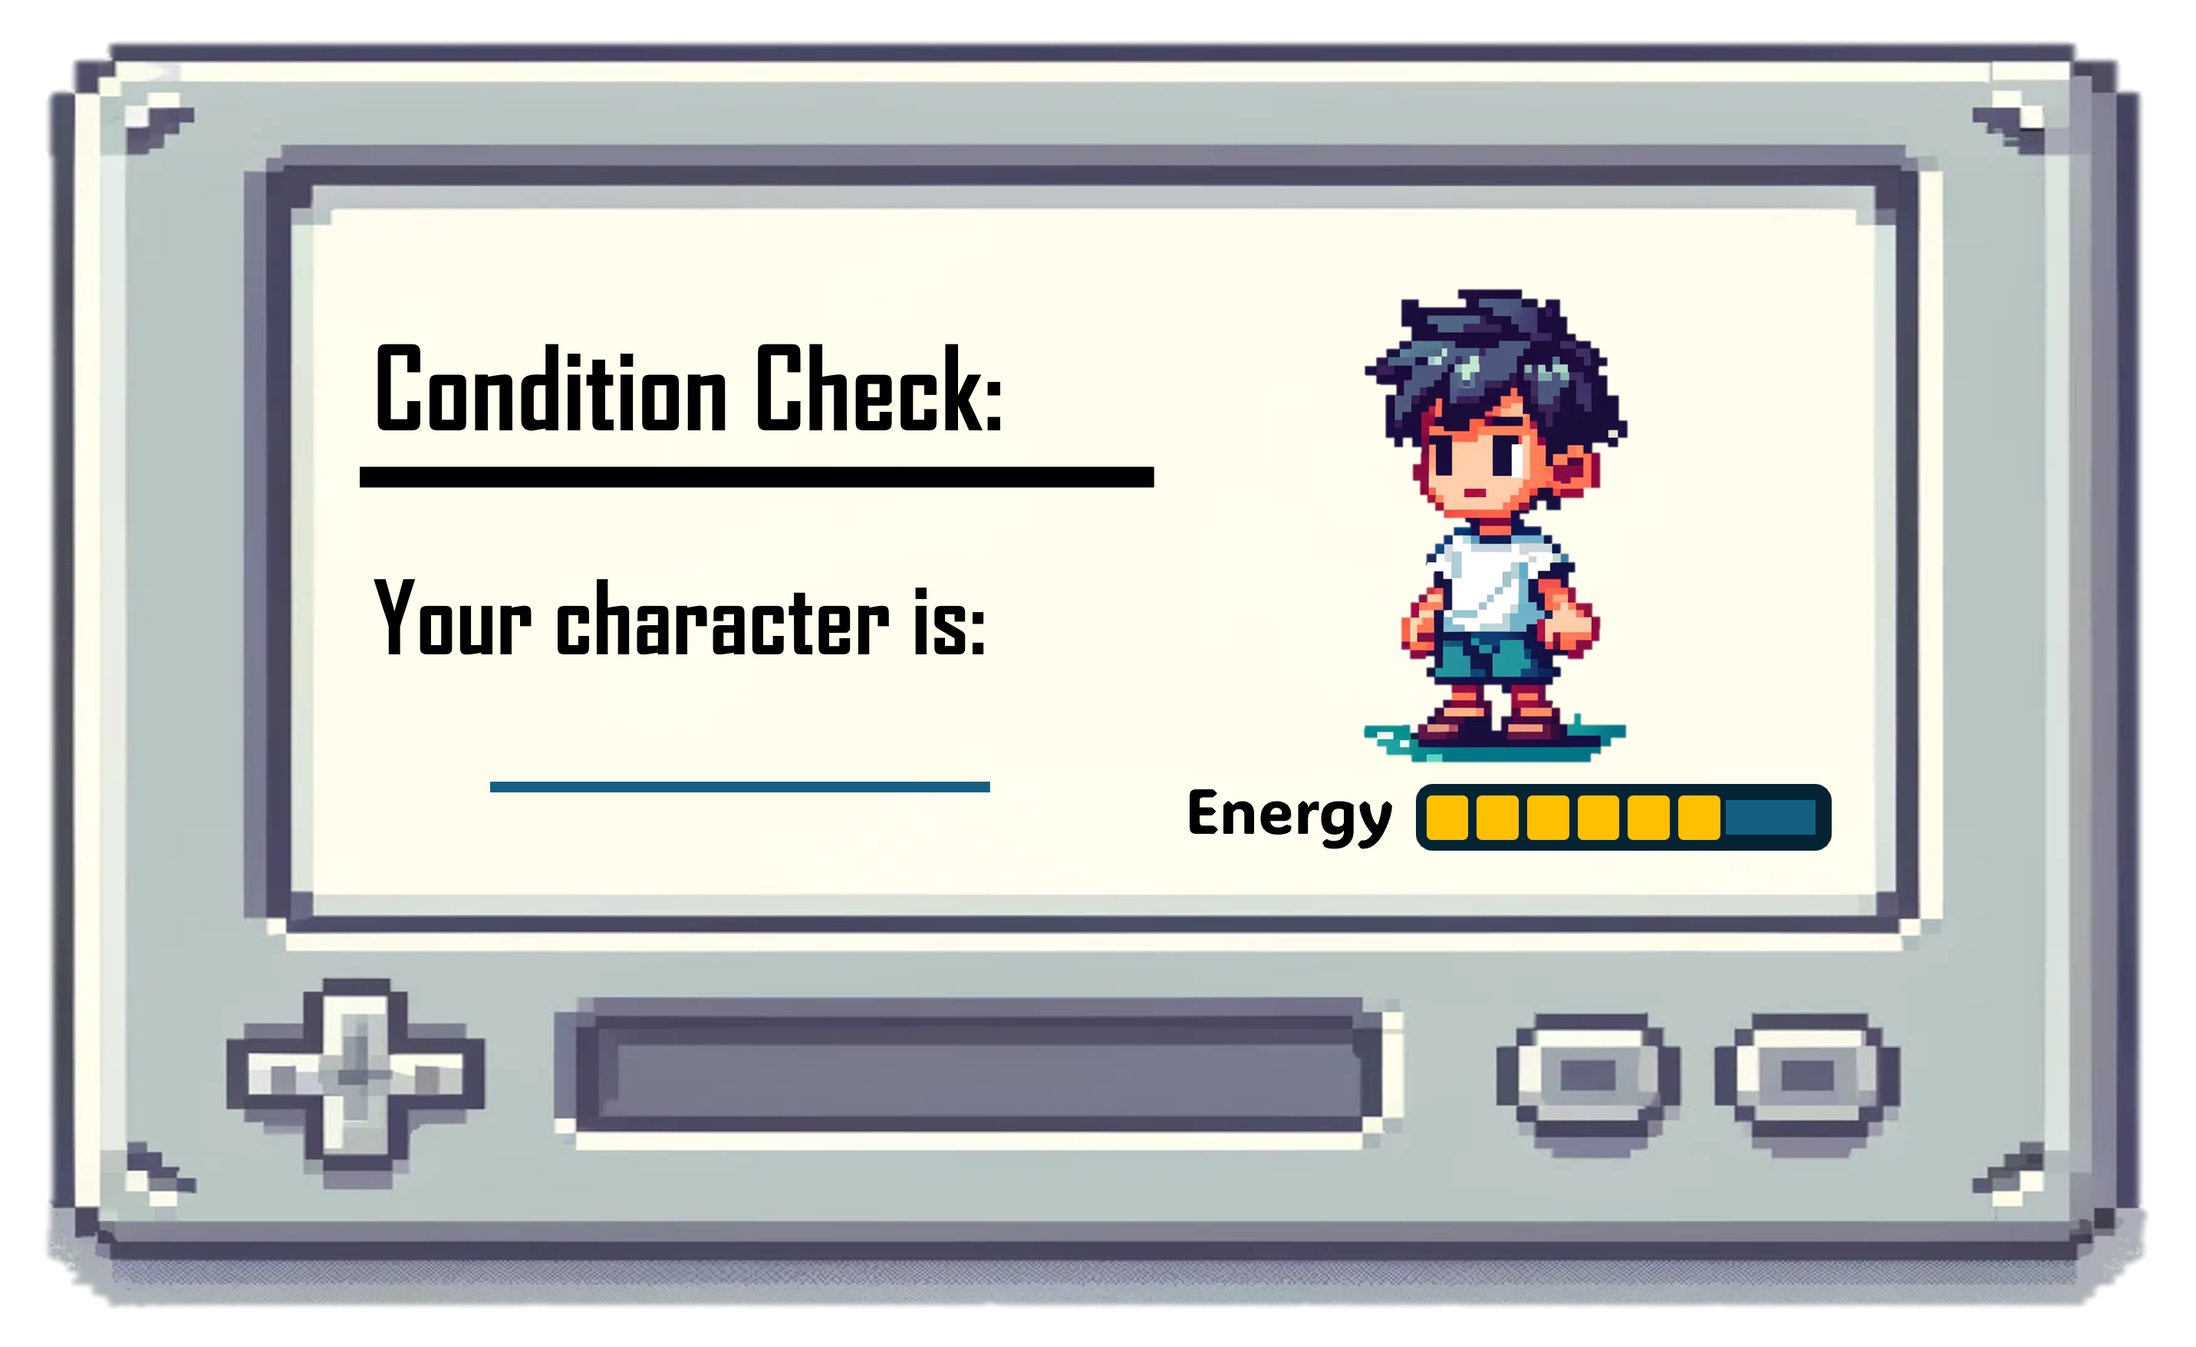
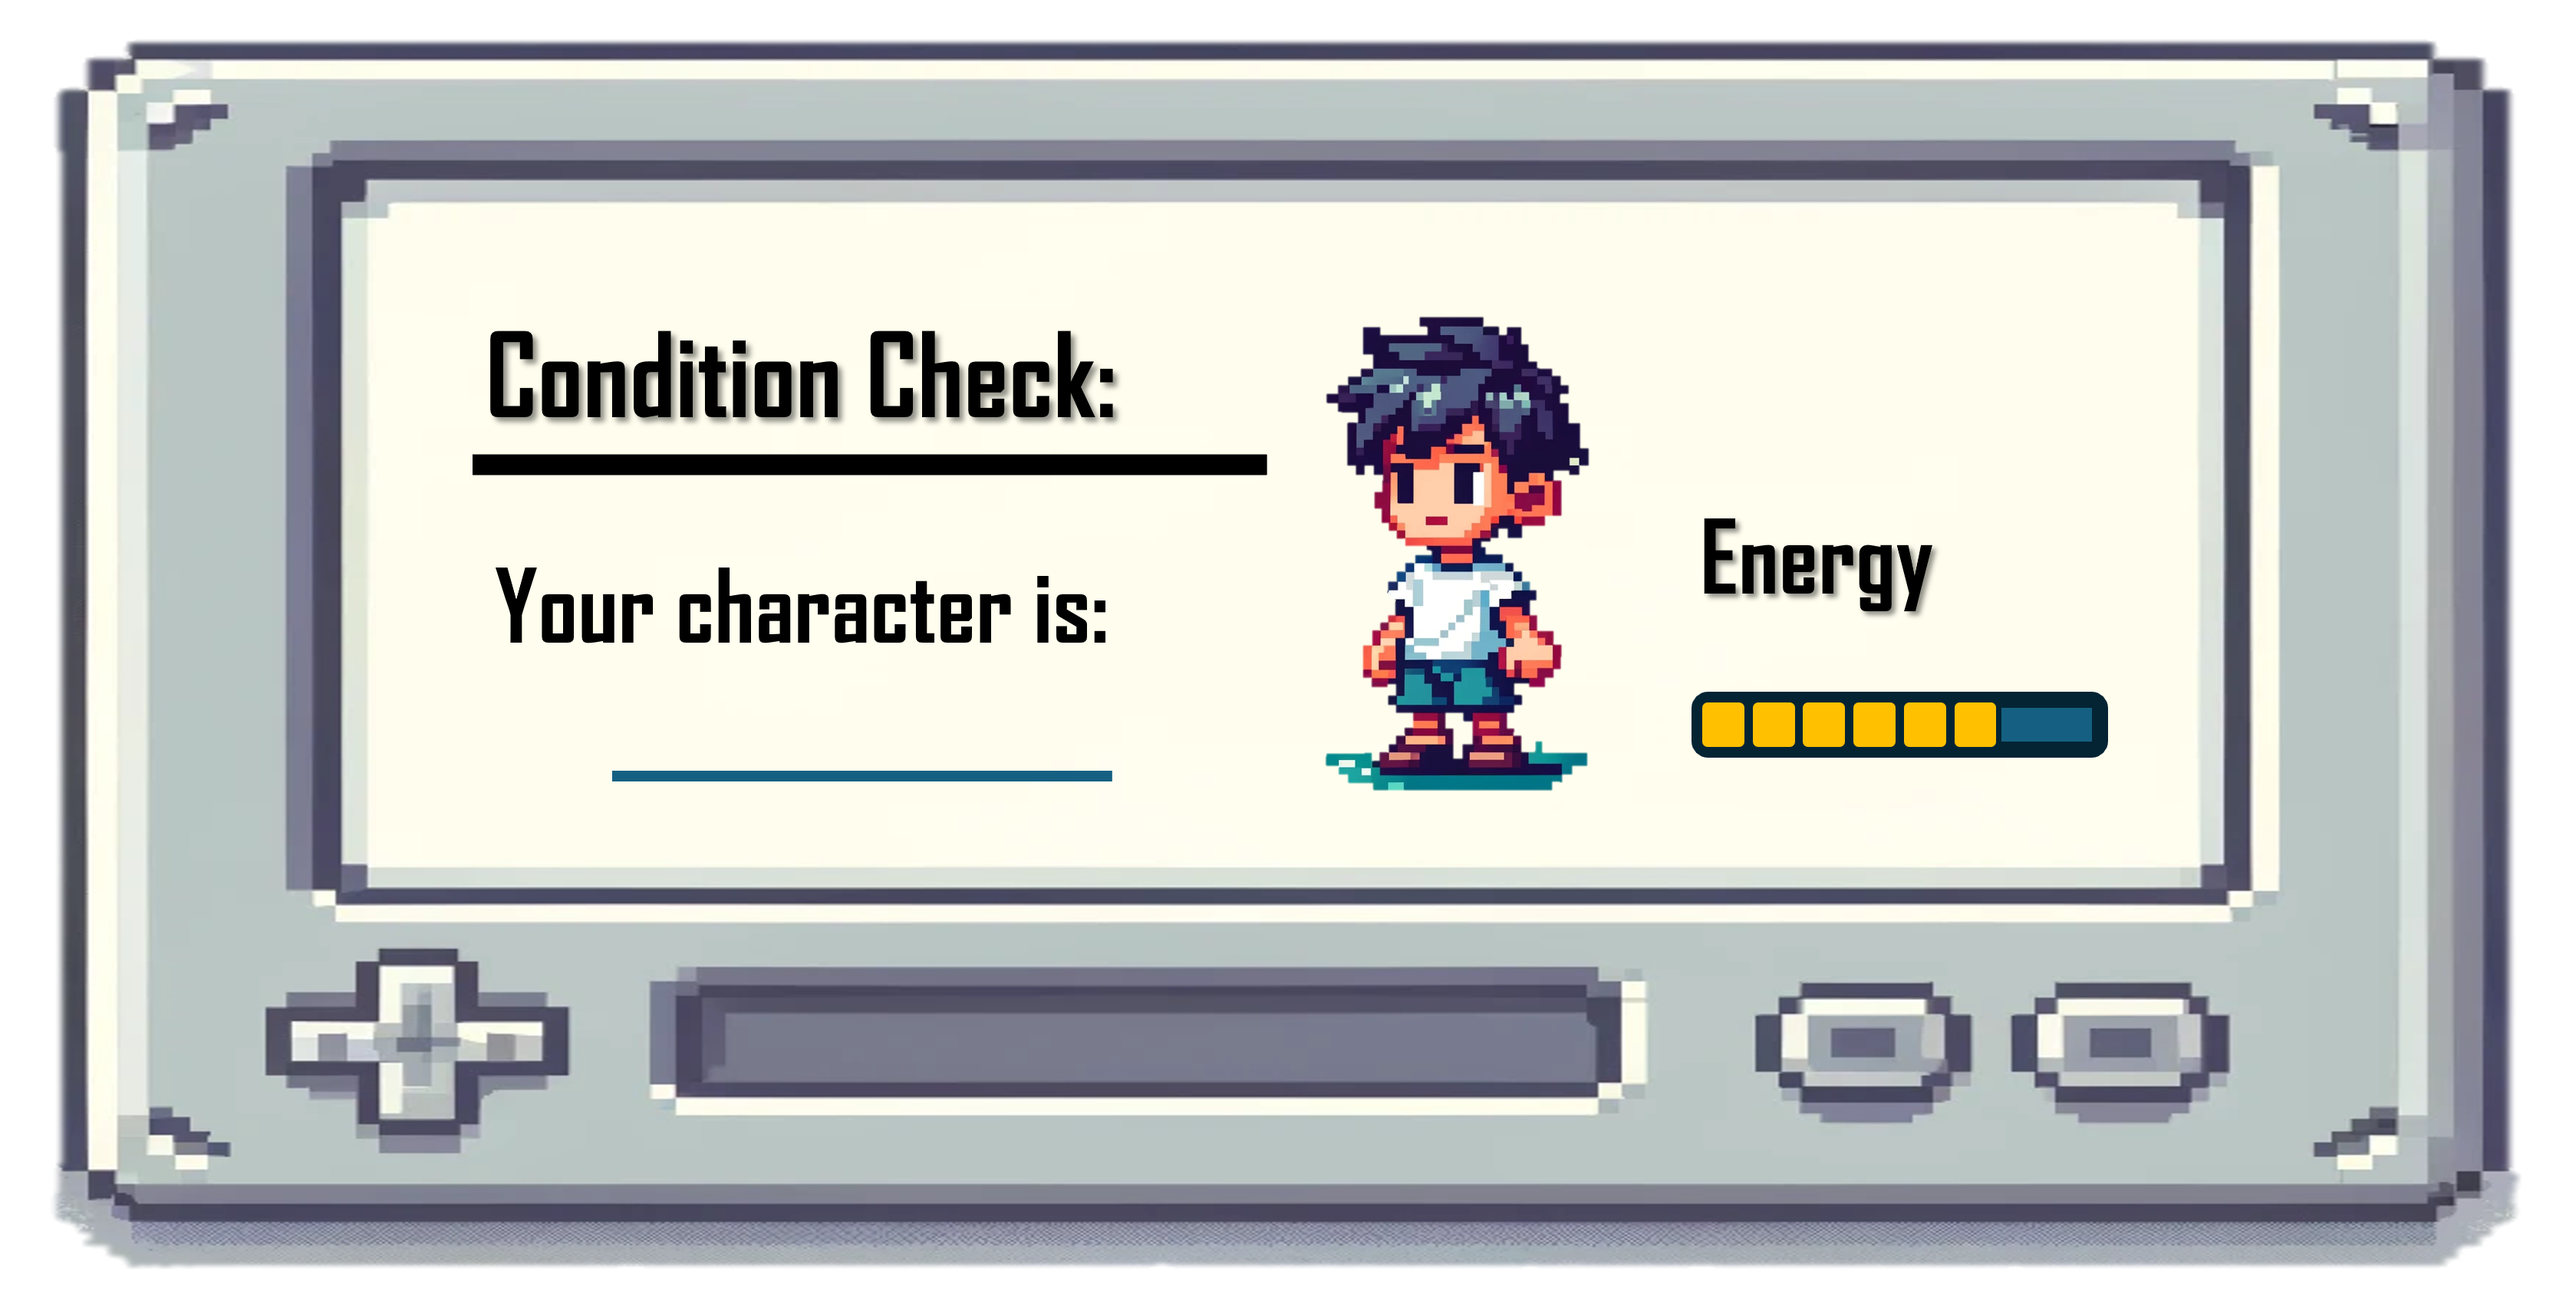
revision1
images updated; grammatical problems corrected; Instruction for each section added; consent form to be added

Changed region(s): [[0.1554, 0.2179, 0.8393, 0.6536], [0.1554, 0.4357, 0.4663, 0.4979], [0.2176, 0.5602, 0.4663, 0.6224]]

diff --git a/se tutorial/production test/production_trial_simplified.html b/se tutorial/production test/production_trial_simplified.html
@@ -23,32 +23,47 @@
       }
     });
 
+
+    var consent_form = {
+      type: jsPsychHtmlButtonResponse,
+      stimulus: '<p> This is the consent form.(To be edited)</p >',
+      choices: ['Continue']
+    };
+
+
     var instruction = {
       type: jsPsychHtmlButtonResponse,
-      stimulus: '<p> You are a player of a video game, which aiming to earn money as soon as possible. Now, you are checking the condition of your characters.</p >',
+      stimulus: '<p> You are a player in a video game, and your goal is to earn money as quickly as possible. <br> Please follow the instructions to check the condition of your characters.</p >',
       choices: ['Continue']
     };
     
     
     var instruction_energy = {
       type: jsPsychHtmlButtonResponse,
-      stimulus: '<p> Here is your characher. Through the dialogue box with yout character, the energy bar, and a sentence provided, you can check the energy condition of your character. </p >',
+      stimulus: '<img src="images_production/instruction_energy.png" style="width:500px; height:auto; margin: 30px auto;">' +
+        '<p> Here is your character.<br> Through the dialogue box, you can check his energy level on the energy bar,<br> and the descriptive sentence about his condition will adjust accordingly. </p >',
       choices: ['Continue']
     };
 
-    var instruction = {
+    var instruction_pet = {
       type: jsPsychHtmlButtonResponse,
-      stimulus: '<p> You are a player of a video game, which aiming to earn money as soon as possible. Now, you are checking the condition of your characters.</p >',
+      stimulus: '<img src="images_production/instruction_pet.png" style="width:500px; height:auto; margin: 30px auto;">' +
+      '<p> Here is your pet.<br> Through the dialogue box, you can check its blood sugar level on the energy bar,<br> and the descriptive sentence about its condition will adjust accordingly.</p >',
       choices: ['Continue']
     };
 
-
+    var instruction_wealth = {
+      type: jsPsychHtmlButtonResponse,
+      stimulus: '<img src="images_production/instruction_wealth.png" style="width:500px; height:auto; margin: 30px auto;">' +
+      '<p> Here is your character.<br> Through the dialogue box, you can check his financial status on the wealth bar,<br> and the descriptive sentence about his condition will adjust accordingly.</p >',
+      choices: ['Continue']
+    };
 
 
     function createTrial(imageType, imageNumber, labels) {
     return {
         type: jsPsychHtmlMultiSliderResponse,
-        stimulus: `<img src="images_production/${imageType}${imageNumber}.png" style="width:350px; height:auto; margin: 50px auto;">` +
+        stimulus: `<img src="images_production/${imageType}${imageNumber}.png" style="width:500px; height:auto; margin: 30px auto;">` +
         '<p>How likely do you think the dialogue box will display the following sentences ? <br> Make sure that your responses sum up to 100.</p>',
         num_sliders: 3,
         force_total: 100,
@@ -61,34 +76,34 @@
     // energy trials
     var energy_trials = [];
     for (let i = 1; i <= 9; i++) {
-        energy_trials.push(createTrial('energy', i, ["You are tired", "You are exhausted", "something else"]));
+        energy_trials.push(createTrial('energy', i, ["Your character is tired", "Your character is exhausted", "something else"]));
     }
 
     var energy_trials_round2 = [];
     for (let i = 1; i <= 9; i++) {
-        energy_trials_round2.push(createTrial('energy', i, ["You are tired", "You are exhausted", "something else"]));
+        energy_trials_round2.push(createTrial('energy', i, ["Your character is tired", "Your character is exhausted", "something else"]));
     }
 
     // pet trials
     var pet_trials = [];
     for (let i = 1; i <= 9; i++) {
-        pet_trials.push(createTrial('pet', i, ["Your dog is hungry and tired", "Your dog is starving", "something else"]));
+        pet_trials.push(createTrial('pet', i, ["Your pet is hungry", "Your dog is starving", "something else"]));
     }
 
     var pet_trials_round2 = [];
     for (let i = 1; i <= 9; i++) {
-        pet_trials_round2.push(createTrial('pet', i, ["Your dog is hungry and tired", "Your dog is starving", "something else"], ));
+        pet_trials_round2.push(createTrial('pet', i, ["Your pet is hungry", "Your dog is starving", "something else"], ));
     }
 
     // wealth trials
     var wealth_trials = [];
     for (let i = 1; i <= 9; i++) {
-        wealth_trials.push(createTrial('wealth', i, ["You are poor", "You are destitute", "something else"], ));
+        wealth_trials.push(createTrial('wealth', i, ["Your character is poor", "Your character is destitute", "something else"], ));
     }
 
     var wealth_trials_round2 = [];
     for (let i = 1; i <= 9; i++) {
-        wealth_trials_round2.push(createTrial('wealth', i, ["You are poor", "You are destitute", "something else"]));
+        wealth_trials_round2.push(createTrial('wealth', i, ["Your character is poor", "Your character is destitute", "something else"]));
     }
 
  
@@ -114,7 +129,7 @@
     var shuffled_timeline_p = jsPsych.randomization.shuffle(timeline_pet);
     var shuffled_timeline_w = jsPsych.randomization.shuffle(timeline_wealth);
 
-    timeline = [instruction].concat(shuffled_timeline_e, shuffled_timeline_p, shuffled_timeline_w)
+    timeline = [consent_form].concat(instruction, instruction_energy, shuffled_timeline_e, instruction_pet, shuffled_timeline_p, instruction_wealth, shuffled_timeline_w)
 
 
     // run
